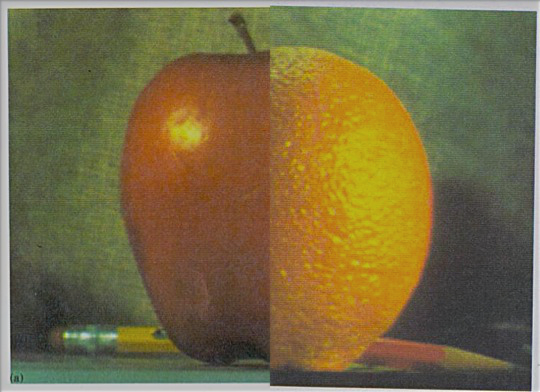
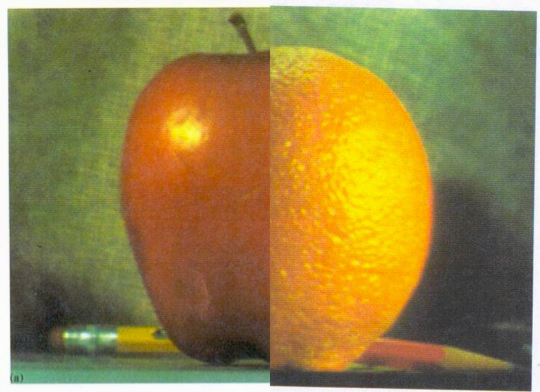
cleaning project

diff --git a/main.cpp b/main.cpp
@@ -9,46 +9,24 @@
 
 using namespace cimg_library;
 
-// In order to make it run
-// g++ main.cpp -o main.out -L/opt/X11/lib -lX11 -pthread -j8
-
-/* CImg pega os valores de 0 a 255. precisa dividir para pegar de 0 a 1 */
-
-// CImg<double> blend() {
-
-// }
-
-std::vector<std::string> split(const std::string &text, char sep) {
-    std::vector<std::string> tokens;
-    std::size_t start = 0, end = 0;
-    while ((end = text.find(sep, start)) != std::string::npos) {
-        std::string temp = text.substr(start, end - start);
-        if (temp != "") tokens.push_back(temp);
-        start = end + 1;
-    }
-    std::string temp = text.substr(start);
-    if (temp != "") tokens.push_back(temp);
-    return tokens;
-}
+// g++ main.cpp -o main.out -L/opt/X11/lib -lX11 -pthread
 
 int main(int argc, char * argv[]) {
 	
 	// Interation with user
-	std::string imagesString;
 	std::string maskString;
+	std::vector<std::string> images;
 
 	if(argc >= 2)
 	{
 		std::string arg1(argv[1]);
-		imagesString = "images/" + arg1;
+		images.push_back("images/" + arg1);
 	}
-	
 	if (argc >= 3)
 	{
 		std::string arg2(argv[2]);
-		imagesString += " images/" + arg2;
+		images.push_back("images/" + arg2);
 	}
-
 	if (argc == 4)
 	{
 		std::string arg3(argv[3]);
@@ -56,9 +34,7 @@ int main(int argc, char * argv[]) {
 	}
 	else { maskString = "images/default.png";}
 
-	std::vector<std::string> images = split(imagesString, ' ');
-
-	const int pyramidSize = 7;
+	const int pyramidSize = 6;
 	
 	CImg<double> ** pyramidsG = new CImg<double>*[images.size()];
  	CImg<double> ** pyramidsP = new CImg<double>*[images.size()];
@@ -100,22 +76,12 @@ int main(int argc, char * argv[]) {
 		so we repeat the last level of the gaussian pyramid */
 		pyramidsP[i][pyramidSize - 1] = pyramidsG[i][pyramidSize - 1];
 
-		// pyramidsG[i][2].display();
-		// pyramidsG[i][3].display();
-		// pyramidsG[i][3].display();
-		// CImg<double> test = lPyramid.expand(pyramidsG[i][1]);
-		// test.display();
-		// lPyramid.expand(reducedImage).display();
-		// pyramidsP[i][0].display();
-		//lPyramid.expand(pyramidsP[i][pyramidSize - 1]).display();
-
-		// Collapse Image
+		// // Collapse Image
 		// CImg<double> collapseImage = pyramidsP[i][pyramidSize - 2] + lPyramid.expand(pyramidsP[i][pyramidSize - 1]);
 		// for (int a = pyramidSize - 3; a >= 0; a--){
 		// 	collapseImage = pyramidsP[i][a] + lPyramid.expand(collapseImage);
 		// }
 		// collapseImage.display();
-		// delete imagePath;
 	}
 
 	// Creating Mask Gaussian Pyramid
@@ -134,28 +100,24 @@ int main(int argc, char * argv[]) {
 		maskGaussianPyramid.push_back(maskReduced);
 		reducedImage = maskReduced;
 	}
-	// maskGaussianPyramid[3].display();
+	// maskGaussianPyramid[pyramidSize - 1].display();
 
 
 	// Blending images
-	std::vector<CImg<double> > newLaplacianPyramid;
-	// std::vector<CImg<double> > newGaussianPyramid;
+	std::vector< CImg<double> > newLaplacianPyramid;
 	for (int i = 0; i < pyramidSize; i++) {
-		CImg<double> lsImageLaplacian(pyramidsG[0][i].width(), pyramidsG[0][i].height(),1,pyramidsG[0][i].spectrum(),0);
-		// CImg<double> lsImageGaussian(pyramidsG[0][i].width(), pyramidsG[0][i].height(),1,pyramidsG[0][i].spectrum());
-		for (int canal = 0; canal < pyramidsG[0][i].spectrum(); canal++){
-			for (int x = 0; x < pyramidsG[0][i].width(); x++) {
-				for (int y = 0; y < pyramidsG[0][i].height(); y++) {
-					lsImageLaplacian(x,y,0,canal) = ((maskGaussianPyramid[i](x,y,0,0)/255.0) * (pyramidsP[0][i](x,y,0,canal))) + ((1.0 - (maskGaussianPyramid[i](x,y,0,0)/255.0))*(pyramidsP[1][i](x,y,0,canal)));
-					// lsImageGaussian(x,y,0,canal)  = ((maskGaussianPyramid[i](x,y,0,0)/255) * (pyramidsG[0][i](x,y,0,canal)/255)) + (1 - (maskGaussianPyramid[i](x,y,0,0)/255))*(pyramidsG[1][i](x,y,0,canal)/255);
+		CImg<double> lsImageLaplacian(pyramidsP[0][i].width(), pyramidsP[0][i].height(),1,pyramidsP[0][i].spectrum(),0);
+		for (int canal = 0; canal < pyramidsP[0][i].spectrum(); canal++){
+			for (int x = 0; x < pyramidsP[0][i].width(); x++) {
+				for (int y = 0; y < pyramidsP[0][i].height(); y++) {
+					lsImageLaplacian(x,y,0,canal) = ((maskGaussianPyramid[i](x,y)/255) * (pyramidsP[0][i](x,y,0,canal))) 
+					+ ((1 - (maskGaussianPyramid[i](x,y)/255))*(pyramidsP[1][i](x,y,0,canal)));
 				}
 			}
 		}
 		newLaplacianPyramid.push_back(lsImageLaplacian);
-		// newGaussianPyramid.push_back(lsImageGaussian);
 	}
 
-	// // Collapsing
 	LaplacianPyramid lPyramid;
 
 	double laplacianFilter[5] = {0.5/8, 2.0/8, 3.0/8, 2.0/8, 0.5/8};
@@ -167,17 +129,10 @@ int main(int argc, char * argv[]) {
 		collapsedImage = newLaplacianPyramid[i] + lPyramid.expand(collapsedImage);
 	}
 
-	// collapsedImage.display();
+	collapsedImage.display();
 	// collapsedImage.normalize(0, 255);
 	// collapsedImage.save("result.png");
-
-// 	imagina q vc tem 4 camadas:
-// expande a camada 3, soma na 2 = x
-// expande x, soma na 1 = y
-// expande y, soma na 0 = piramide colapsada
 	
-
-	// delete maskPath;
 	for (int i = 0; i < images.size(); i++) {
 		delete [] pyramidsG[i];
 		delete [] pyramidsP[i];

diff --git a/laplacianpyramid.hpp b/laplacianpyramid.hpp
@@ -17,8 +17,6 @@ public:
 		int height      = image.height();
 		int imageCanals = image.spectrum();
 
-		// 68, 49, 3
-		// 136, 98, 3
 		CImg<double> expandedImage(2 * width, 2 * height, 1, imageCanals,0);
 		
 		for (int canal = 0; canal < imageCanals; canal++) {
@@ -26,14 +24,11 @@ public:
 			for (int y = 0; y < 2*height; y+=2) {
 				for (int x = 0; x < 2*width; x+=2) {
 					expandedImage(x,y,0,canal) = image(x/2,y/2,0,canal);
-					// expandedImage(x,y,0,canal) = 120.0;
-					// std::cout << image(x/2,y/2,0,canal) << std::endl;
-					// expandedImage(x+1, y+1,0,canal) = 200.0;
 				}
 			}
 		}
 
-		CImg<double> filteredImage(2 * width, 2 * height, 1, imageCanals);
+		CImg<double> filteredImage(2 * width, 2 * height, 1, imageCanals,0);
 
 		for (int canal = 0; canal < imageCanals; canal++) {
 			for (int y = 0; y < 2 * height; y++){
@@ -54,9 +49,7 @@ public:
 			}
 		}
 
-		// expandedImage.save("TESTE.png");
 		return filteredImage;
-		// return expandedImage;
 	}
 
 	void generateFilter (double filter[5]) {

diff --git a/gaussianpyramid.hpp b/gaussianpyramid.hpp
@@ -19,7 +19,7 @@ public:
 		int height      = image.height();
 		int imageCanals = image.spectrum();
 
-		int modifiedWidth = width;
+		int modifiedWidth  = width;
 		int modifiedHeight = height;
 
 		if (width % 2 != 0){
